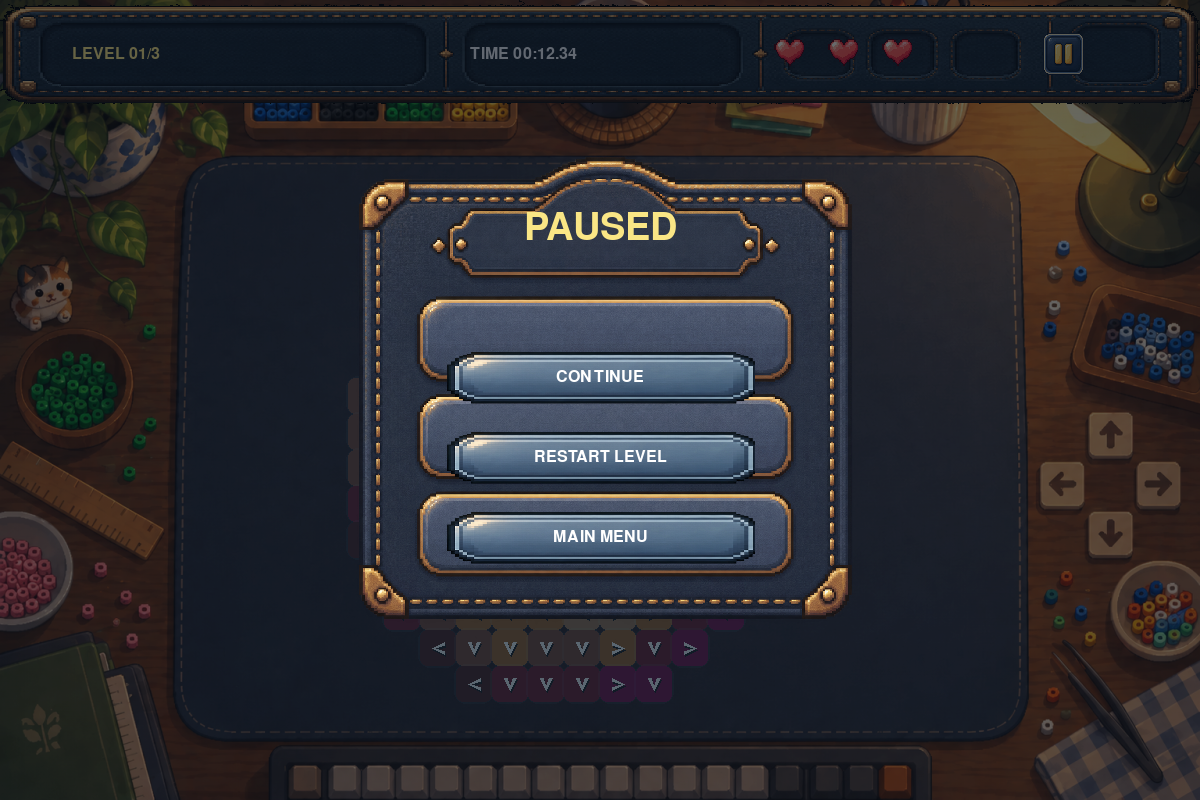
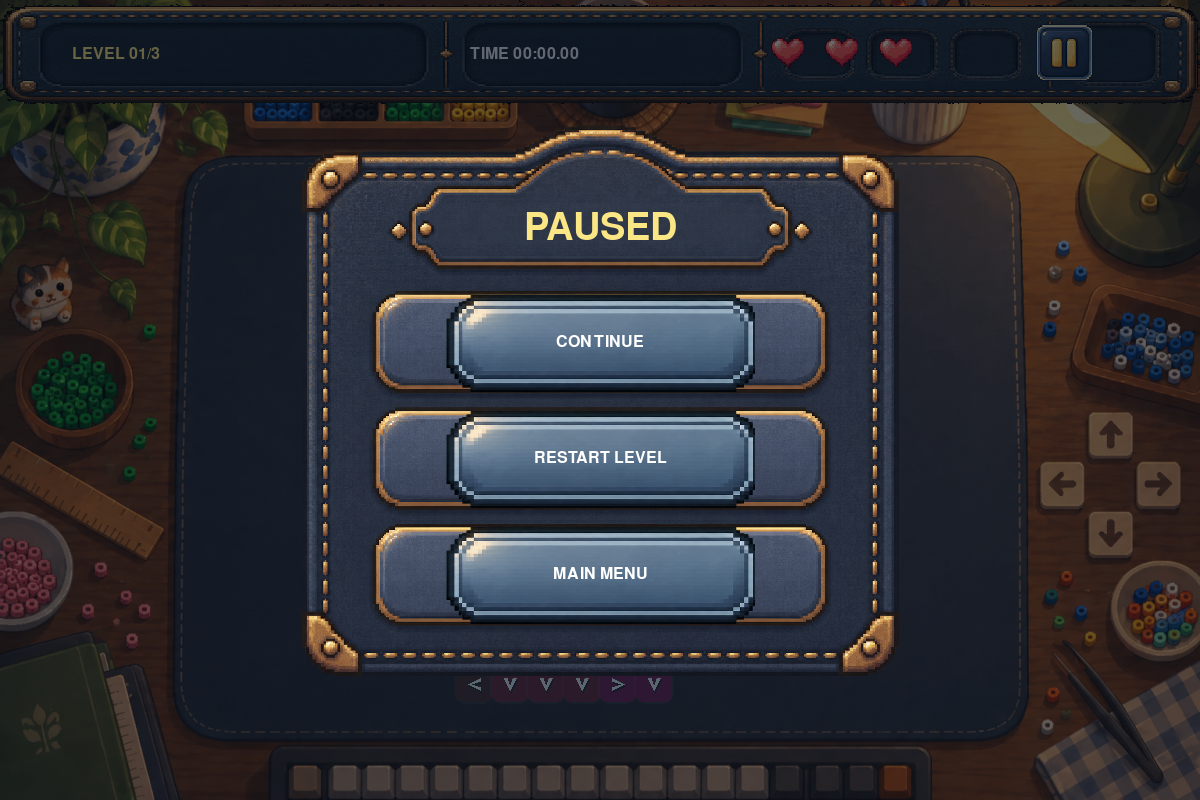
fix: align pixel UI assets without stretching

diff --git a/src/ui.py b/src/ui.py
@@ -85,6 +85,7 @@ def _load_ui_asset(
     *,
     crop: pygame.Rect | None = None,
     black_is_transparent: bool = False,
+    remove_artifacts: bool = False,
 ) -> pygame.Surface:
     """Load one supplied UI illustration, optionally crop and trim it."""
     surface = pygame.image.load(path)
@@ -92,9 +93,32 @@ def _load_ui_asset(
         surface = surface.subsurface(crop).copy()
     if black_is_transparent:
         surface.set_colorkey((0, 0, 0))
-        surface = remove_isolated_artifacts(surface, minimum_pixels=200)
+        if remove_artifacts:
+            surface = remove_isolated_artifacts(surface, minimum_pixels=200)
     bounds = surface.get_bounding_rect()
-    return surface.subsurface(bounds).copy() if bounds.size != surface.get_size() else surface
+    if bounds.size != surface.get_size():
+        surface = surface.subsurface(bounds).copy()
+        if black_is_transparent:
+            surface.set_colorkey((0, 0, 0))
+    return surface
+
+
+def fit_surface(
+    surface: pygame.Surface, target: pygame.Rect
+) -> tuple[pygame.Surface, pygame.Rect]:
+    """Fit a pixel-art surface inside a rectangle without stretching it."""
+    if surface.get_width() <= 0 or surface.get_height() <= 0:
+        raise ValueError("surface must have positive dimensions")
+    scale = min(
+        target.width / surface.get_width(),
+        target.height / surface.get_height(),
+    )
+    size = (
+        max(1, round(surface.get_width() * scale)),
+        max(1, round(surface.get_height() * scale)),
+    )
+    fitted = pygame.transform.scale(surface, size)
+    return fitted, fitted.get_rect(center=target.center)
 
 
 COLOR_MAP = {
@@ -185,38 +209,65 @@ class UI:
                 TOP_STATUS_BAR_PATH,
                 crop=pygame.Rect(35, 210, 2105, 445),
                 black_is_transparent=True,
+                remove_artifacts=True,
             ),
             (1200, 104),
         )
         self.button_skins = {
             "normal": _load_ui_asset(
-                BUTTON_STATES_PATH, crop=pygame.Rect(50, 220, 650, 250)
+                BUTTON_STATES_PATH,
+                crop=pygame.Rect(50, 220, 650, 250),
+                black_is_transparent=True,
             ),
             "hover": _load_ui_asset(
-                BUTTON_STATES_PATH, crop=pygame.Rect(700, 220, 650, 250)
+                BUTTON_STATES_PATH,
+                crop=pygame.Rect(700, 220, 650, 250),
+                black_is_transparent=True,
             ),
             "danger": _load_ui_asset(
-                BUTTON_STATES_PATH, crop=pygame.Rect(1360, 220, 650, 250)
+                BUTTON_STATES_PATH,
+                crop=pygame.Rect(1360, 220, 650, 250),
+                black_is_transparent=True,
             ),
         }
         self.heart_full = pygame.transform.scale(
-            _load_ui_asset(HEARTS_PATH, crop=pygame.Rect(250, 40, 750, 650)),
+            _load_ui_asset(
+                HEARTS_PATH,
+                crop=pygame.Rect(250, 40, 750, 650),
+                black_is_transparent=True,
+            ),
             (34, 30),
         )
         self.heart_empty = pygame.transform.scale(
-            _load_ui_asset(HEARTS_PATH, crop=pygame.Rect(1110, 40, 800, 650)),
+            _load_ui_asset(
+                HEARTS_PATH,
+                crop=pygame.Rect(1110, 40, 800, 650),
+                black_is_transparent=True,
+            ),
             (34, 30),
         )
         self.star_full = pygame.transform.scale(
-            _load_ui_asset(RATING_STARS_PATH, crop=pygame.Rect(390, 60, 570, 550)),
+            _load_ui_asset(
+                RATING_STARS_PATH,
+                crop=pygame.Rect(390, 60, 570, 550),
+                black_is_transparent=True,
+            ),
             (34, 34),
         )
         self.star_empty = pygame.transform.scale(
-            _load_ui_asset(RATING_STARS_PATH, crop=pygame.Rect(1120, 60, 620, 550)),
+            _load_ui_asset(
+                RATING_STARS_PATH,
+                crop=pygame.Rect(1120, 60, 620, 550),
+                black_is_transparent=True,
+            ),
             (34, 34),
         )
-        self.pause_icon = pygame.transform.scale(_load_ui_asset(PAUSE_BUTTON_PATH), (58, 58))
-        self.pause_panel = pygame.transform.scale(_load_ui_asset(PAUSE_PANEL_PATH), (600, 554))
+        self.pause_icon = pygame.transform.scale(
+            _load_ui_asset(PAUSE_BUTTON_PATH, black_is_transparent=True), (58, 58)
+        )
+        self.pause_panel = pygame.transform.scale(
+            _load_ui_asset(PAUSE_PANEL_PATH, black_is_transparent=True), (600, 554)
+        )
         self._refresh_layout()
 
     def cell_at(self, position: tuple[int, int]) -> tuple[int, int] | None:
@@ -246,22 +297,22 @@ class UI:
         return pygame.Rect(1035, 23, 62, 62)
 
     def pause_resume_rect(self) -> pygame.Rect:
-        return pygame.Rect(445, 350, 310, 54)
+        return pygame.Rect(445, 292, 310, 100)
 
     def pause_restart_rect(self) -> pygame.Rect:
-        return pygame.Rect(445, 430, 310, 54)
+        return pygame.Rect(445, 408, 310, 100)
 
     def pause_menu_rect(self) -> pygame.Rect:
-        return pygame.Rect(445, 510, 310, 54)
+        return pygame.Rect(445, 524, 310, 100)
 
     def result_primary_rect(self) -> pygame.Rect:
-        return pygame.Rect(490, 505, 220, 48)
+        return pygame.Rect(450, 455, 300, 70)
 
     def result_retry_rect(self) -> pygame.Rect:
-        return pygame.Rect(490, 561, 220, 42)
+        return pygame.Rect(450, 535, 300, 60)
 
     def result_menu_rect(self) -> pygame.Rect:
-        return pygame.Rect(490, 611, 220, 42)
+        return pygame.Rect(450, 605, 300, 60)
 
     def start_rect(self) -> pygame.Rect:
         rect = pygame.Rect(0, 0, 260, 64)
@@ -605,7 +656,7 @@ class UI:
     ) -> None:
         mouse_position = pygame.mouse.get_pos() if pygame.display.get_init() else (-1, -1)
         skin_name = "hover" if rect.collidepoint(mouse_position) else style
-        skin = pygame.transform.scale(self.button_skins[skin_name], rect.size)
-        self.screen.blit(skin, rect.topleft)
+        skin, skin_rect = fit_surface(self.button_skins[skin_name], rect)
+        self.screen.blit(skin, skin_rect)
         surface = self.small_font.render(label, True, (255, 255, 255))
         self.screen.blit(surface, surface.get_rect(center=rect.center))

diff --git a/tests/test_ui.py b/tests/test_ui.py
@@ -24,6 +24,7 @@ from src.ui import (
     GridLayout,
     WINDOW_SIZE,
     format_elapsed_time,
+    fit_surface,
     rating_star_points,
     remove_isolated_artifacts,
 )
@@ -124,6 +125,38 @@ def test_supplied_pixel_ui_assets_are_packaged_with_the_game():
         assert asset_path.is_file()
 
 
+def test_loaded_ui_sprites_key_out_black_backgrounds_and_trim_their_bounds():
+    pygame.font.init()
+    ui = UI(pygame.Surface(WINDOW_SIZE), Game(create_tree_board))
+
+    sprites = [
+        *ui.button_skins.values(),
+        ui.heart_full,
+        ui.heart_empty,
+        ui.star_full,
+        ui.star_empty,
+        ui.pause_icon,
+        ui.pause_panel,
+    ]
+
+    for sprite in sprites:
+        assert sprite.get_colorkey()[:3] == (0, 0, 0)
+        bounds = sprite.get_bounding_rect()
+        assert bounds.width >= sprite.get_width() - 2
+        assert bounds.height >= sprite.get_height() - 2
+
+
+def test_fit_surface_preserves_aspect_ratio_and_centers_the_sprite():
+    source = pygame.Surface((300, 100), pygame.SRCALPHA)
+    target = pygame.Rect(100, 200, 310, 54)
+
+    fitted, rect = fit_surface(source, target)
+
+    assert fitted.get_size() == (162, 54)
+    assert rect.center == target.center
+    assert rect.size == fitted.get_size()
+
+
 def test_pause_controls_are_separate_and_render_for_a_paused_game():
     pygame.font.init()
     screen = pygame.Surface(WINDOW_SIZE)
@@ -138,6 +171,16 @@ def test_pause_controls_are_separate_and_render_for_a_paused_game():
     assert ui.pause_rect().collidepoint(ui.pause_rect().center)
 
 
+def test_pause_button_slots_follow_the_centers_of_the_supplied_pause_panel():
+    pygame.font.init()
+    ui = UI(pygame.Surface(WINDOW_SIZE), Game(create_tree_board))
+
+    assert ui.pause_resume_rect().center == (600, 342)
+    assert ui.pause_restart_rect().center == (600, 458)
+    assert ui.pause_menu_rect().center == (600, 574)
+    assert ui.pause_resume_rect().height == 100
+
+
 def test_ui_exposes_start_and_result_action_buttons():
     pygame.font.init()
     screen = pygame.Surface(WINDOW_SIZE)
@@ -145,7 +188,18 @@ def test_ui_exposes_start_and_result_action_buttons():
     ui = UI(screen, game)
 
     assert ui.start_rect().size == (260, 64)
-    assert ui.result_action_rect().size == (220, 48)
+    assert ui.result_action_rect().size == (300, 70)
+
+
+def test_result_button_slots_form_a_centered_stack_inside_the_result_panel():
+    pygame.font.init()
+    ui = UI(pygame.Surface(WINDOW_SIZE), Game(create_tree_board))
+
+    assert ui.result_primary_rect().center == (600, 490)
+    assert ui.result_retry_rect().center == (600, 565)
+    assert ui.result_menu_rect().center == (600, 635)
+    assert not ui.result_primary_rect().colliderect(ui.result_retry_rect())
+    assert not ui.result_retry_rect().colliderect(ui.result_menu_rect())
 
 
 def test_start_screen_draws_a_distinct_title_panel_and_start_button():
